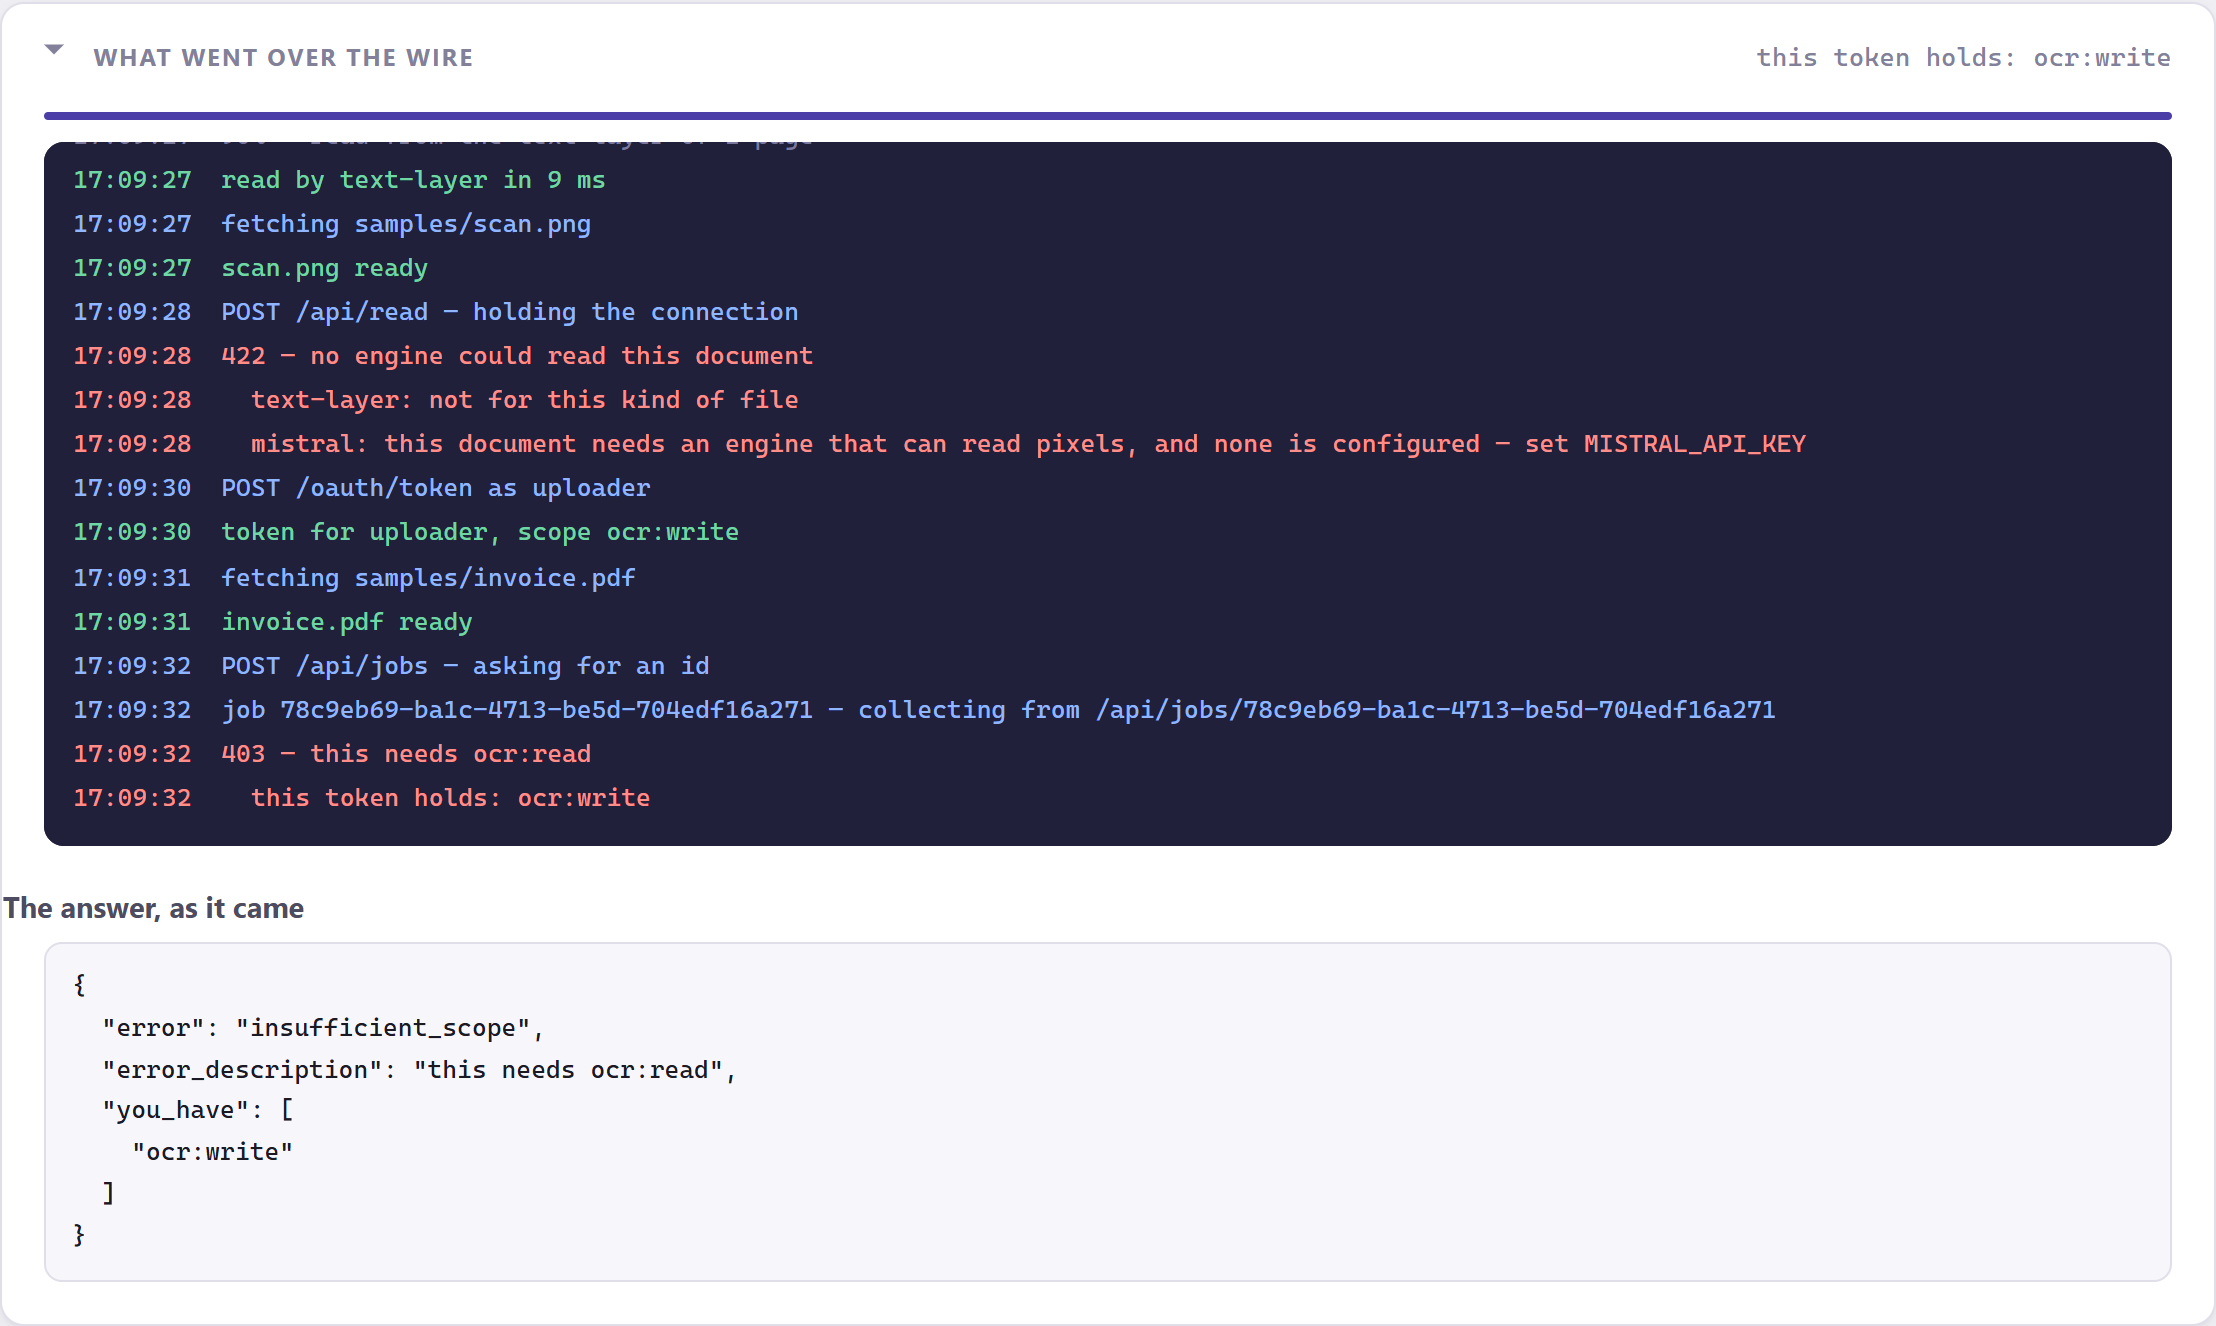
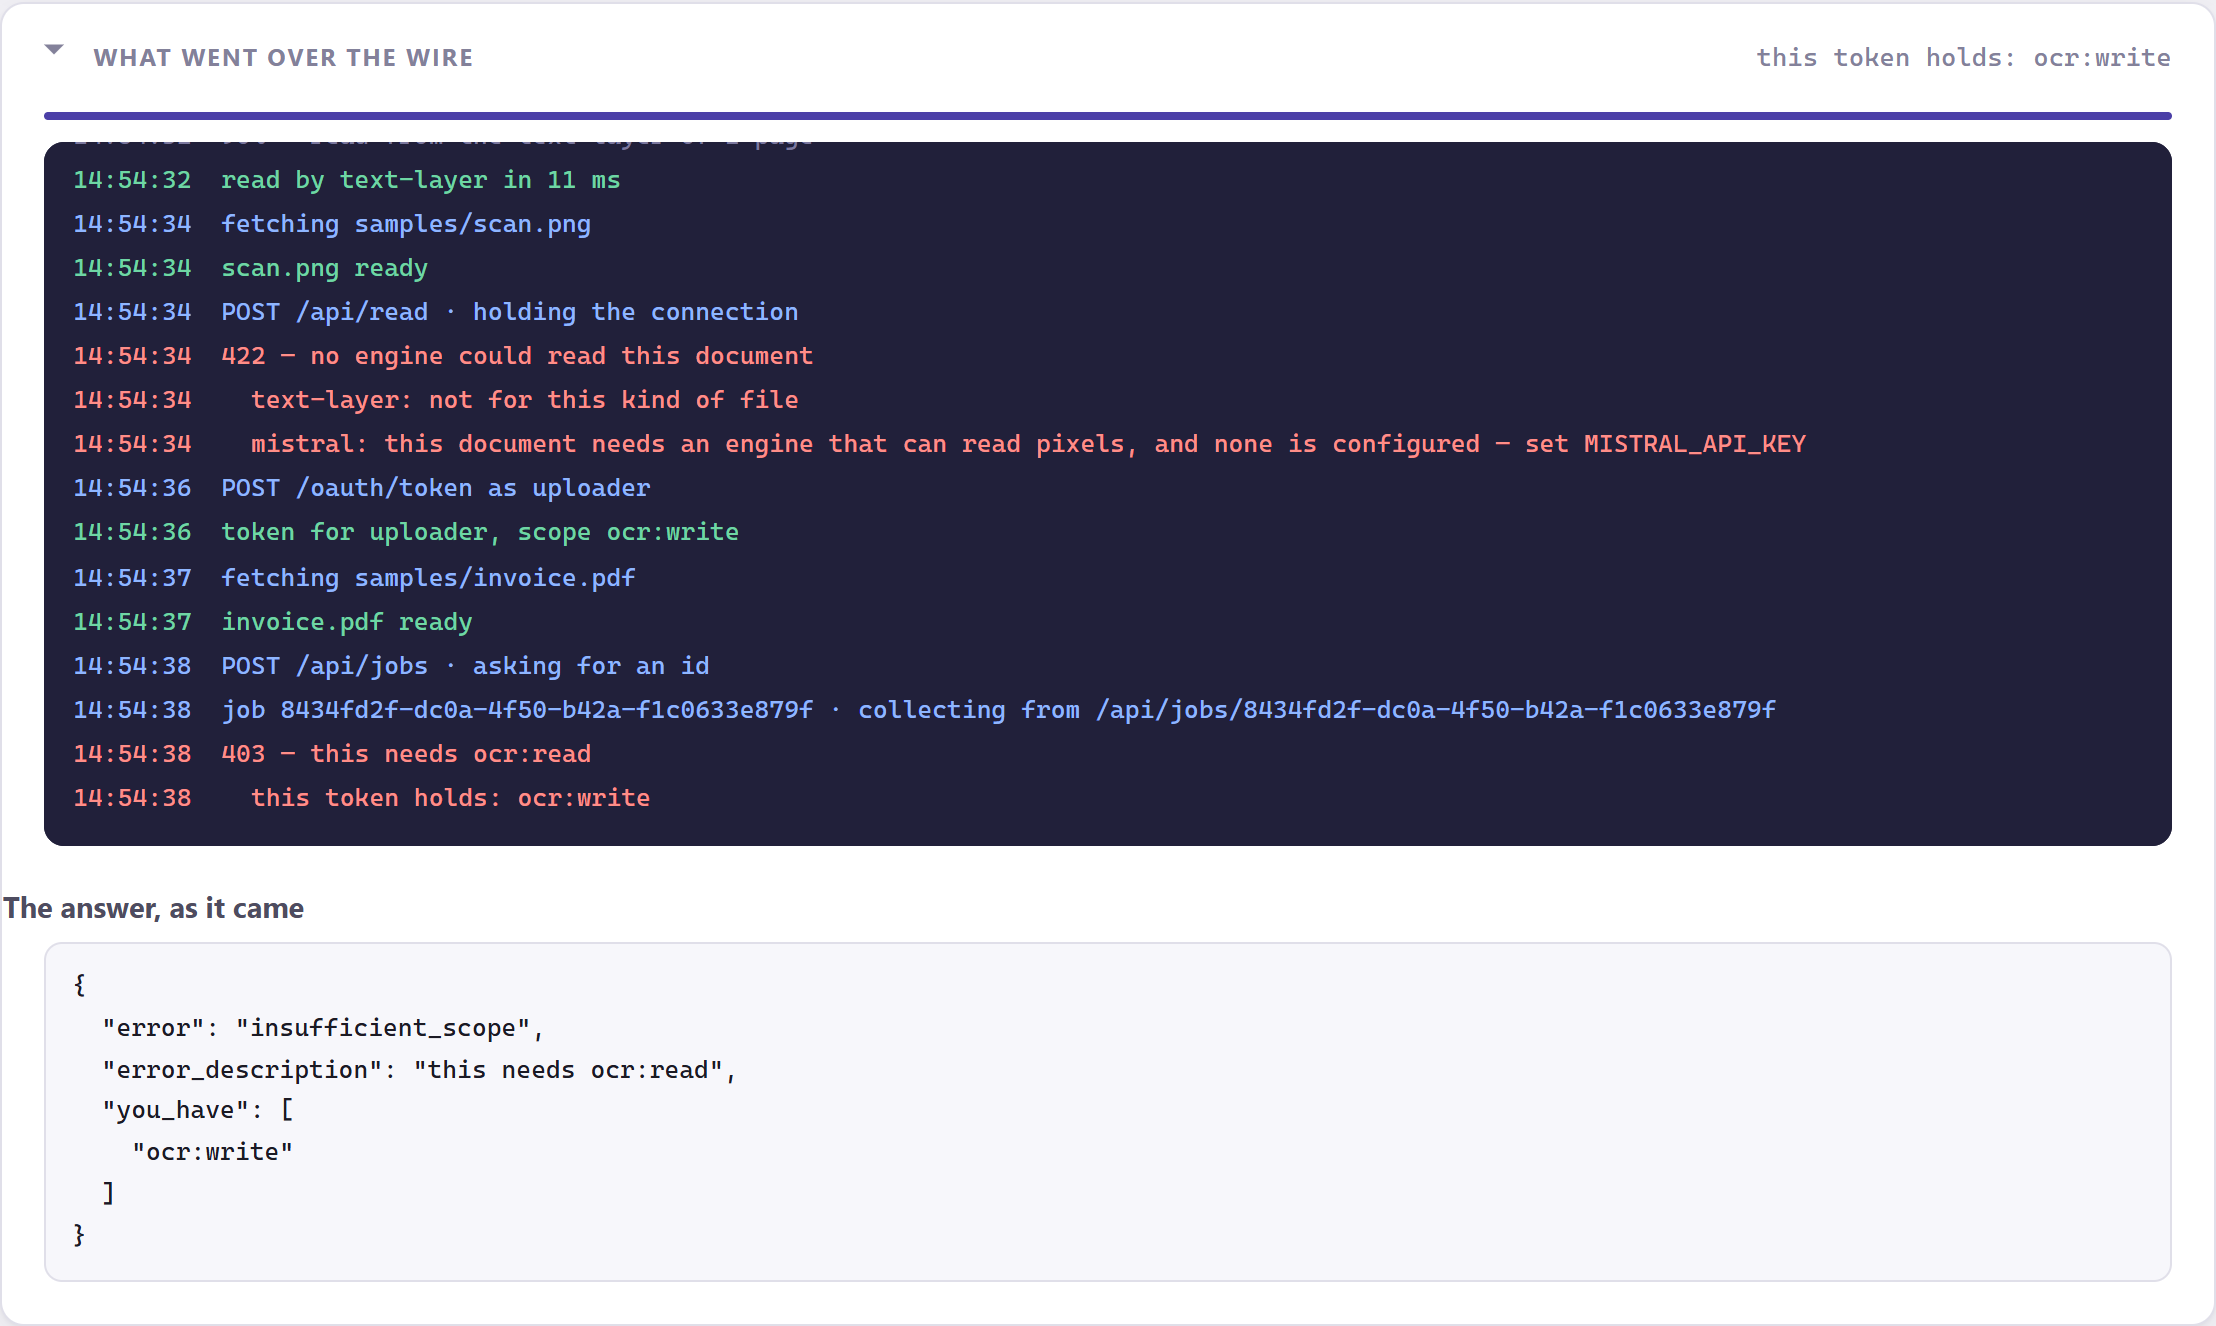
The footer said what this is, never why the original is missing
The line under every demonstration named the thing and named what was invented
in it, and stopped there. It never said why there is a reconstruction at all,
which is the half that matters: the original cannot be published. Somebody who
opens one of these from a direct link never sees the README, so that sentence
existed nowhere they would look.

The same words now open every one of the fourteen interfaces in this portfolio,
character for character, whether the footer lives in an index.html, an Angular
template, a Razor page, a PHP view or a React component.

The name in the signature is a link to the profile, opening in its own tab.
It carries rel=noopener, and that is not decoration: without it the page that
opens gets a handle on this one and can navigate it somewhere else. It does not
carry nofollow, because unlike the link out to a client's live site, this one is
meant to be followed.

The dash was a tic here too. Twenty-three of them on one page, eighty-five
across the eight HTML ones, and this is where somebody actually looks rather
than on GitHub. Most are gone by rewriting the sentence; the ones that stayed
are all the same case, a parenthesis that already holds commas of its own,
where a comma cannot do the work. The proof it was rewritten and not
substituted is the length: the visible text got shorter.

diff --git a/public/app.js b/public/app.js
@@ -56,7 +56,7 @@ const CLIENTS = [
   ['uploader', 'demo-secret-write-1234', 'submits, and may not read back', 'ocr:write'],
   ['collector', 'demo-secret-read-1234', 'collects, and may not submit', 'ocr:read'],
   ['impatient', 'demo-secret-slow-1234', 'three calls a minute', 'ocr:read ocr:write'],
-  ['retired', 'demo-secret-retired-1234', 'switched off in the file', '—'],
+  ['retired', 'demo-secret-retired-1234', 'switched off in the file', 'none'],
 ];
 
 let token = null;
@@ -145,7 +145,7 @@ fetch('/api/health')
     $('modeSays').innerHTML = readsPixels
       ? 'An API key is set, so this reads <strong>both</strong> the text inside a PDF and the pixels of a scan.'
       : 'No API key is set, and it does not need one: this reads <strong>any PDF that carries its own text</strong>, ' +
-        'which is most of them. Only a scan or a photograph will be refused — it has no text to carry — and the ' +
+        'which is most of them. Only a scan or a photograph, having no text to carry, is refused, and the ' +
         'refusal says so and names the one thing that changes it, <code>MISTRAL_API_KEY</code>.';
 
     $('engines').innerHTML = health.engines
@@ -262,7 +262,7 @@ $('readForm').addEventListener('submit', async (event) => {
 
 /** 1. The simple one: hold the connection until it is done. */
 async function waitForIt(form) {
-  say('POST /api/read — holding the connection', 'sent');
+  say('POST /api/read · holding the connection', 'sent');
   progress(0.5);
 
   const response = await fetch('/api/read', {
@@ -278,7 +278,7 @@ async function waitForIt(form) {
   if (!response.ok) return refused(response, body);
 
   arrived(body);
-  say(`read by ${body.engine} in ${body.took_ms} ms — ${body.characters} characters`, 'good');
+  say(`read by ${body.engine} in ${body.took_ms} ms · ${body.characters} characters`, 'good');
 }
 
 /**
@@ -290,7 +290,7 @@ async function waitForIt(form) {
  * Everything up to the last newline is complete; what follows waits.
  */
 async function watchItWork(form) {
-  say('POST /api/read/live — one line per step', 'sent');
+  say('POST /api/read/live · one line per step', 'sent');
 
   const response = await fetch('/api/read/live', {
     method: 'POST',
@@ -345,7 +345,7 @@ function onEvent(event) {
 
 /** 3. The one for work that takes a while: an id, and come back. */
 async function comeBackForIt(form) {
-  say('POST /api/jobs — asking for an id', 'sent');
+  say('POST /api/jobs · asking for an id', 'sent');
 
   const opened = await fetch('/api/jobs', {
     method: 'POST',
@@ -358,7 +358,7 @@ async function comeBackForIt(form) {
 
   if (!opened.ok) return refused(opened, accepted);
 
-  say(`job ${accepted.job_id} — collecting from ${accepted.collect_from}`, 'sent');
+  say(`job ${accepted.job_id} · collecting from ${accepted.collect_from}`, 'sent');
 
   for (let asked = 0; asked < 100; asked += 1) {
     await new Promise((done) => setTimeout(done, 250));

diff --git a/public/styles.css b/public/styles.css
@@ -468,6 +468,39 @@ footer {
   font-size: 0.8rem;
 }
 
+/* The signature, and the one link on this page that is not a control.
+ *
+ * Down here the type is 0.8rem set in --ink-faint, so colour alone would not
+ * say "link" to anybody — and the accent would say "advert", which a name at
+ * the foot of a page is not. So the name takes no new colour and no new token:
+ * it steps up to --ink-soft, the ink this console already gives its secondary
+ * text, which reads 7.33:1 on the footer in light and 8.56:1 in dark against
+ * the 3.32:1 the sentence beside it is deliberately set in. The underline is
+ * what carries the meaning, and it is there before the pointer is rather than
+ * arriving on hover. Hover goes the last step to --ink, the way the quiet
+ * controls above darken. The focus ring is the accent outline every control on
+ * this page already wears, held one pixel further out so it clears the
+ * underline, and the radius only keeps it from cutting the corners of a small
+ * word. The transition is caught by the prefers-reduced-motion rule below,
+ * which switches off every transition on this page. */
+footer .by a {
+  color: var(--ink-soft);
+  text-decoration: underline;
+  text-decoration-thickness: 1px;
+  text-underline-offset: 0.18em;
+  border-radius: 3px;
+  transition: color 120ms ease;
+}
+
+footer .by a:hover {
+  color: var(--ink);
+}
+
+footer .by a:focus-visible {
+  outline: 2px solid var(--accent);
+  outline-offset: 2px;
+}
+
 @media (prefers-reduced-motion: reduce) {
   * {
     transition: none !important;

diff --git a/public/index.html b/public/index.html
@@ -161,7 +161,7 @@
       <!-- 4. The machinery. Below, and openable. -->
       <details class="card fold" id="boundaryFold">
         <summary>
-          <h2>Who is asking — tokens, scopes and limits</h2>
+          <h2>Who is asking: tokens, scopes and limits</h2>
           <span class="summary-say" id="whoNow">signed in automatically</span>
         </summary>
 
@@ -215,10 +215,11 @@
 
     <footer>
       <span>
-        A demonstration — an independent reconstruction of a production system I
-        designed and developed. Every document in <code>samples/</code> is invented.
+        A demonstration. It reconstructs a production system I designed and
+        developed; the original cannot be published, so this one was written
+        from scratch. Every document in <code>samples/</code> is invented.
       </span>
-      <span>Developed by Riccardo Sapuppo</span>
+      <span class="by">Developed by <a href="https://github.com/riccardosapuppo" target="_blank" rel="noopener noreferrer">Riccardo Sapuppo</a></span>
     </footer>
 
     <script src="./app.js" type="module"></script>
